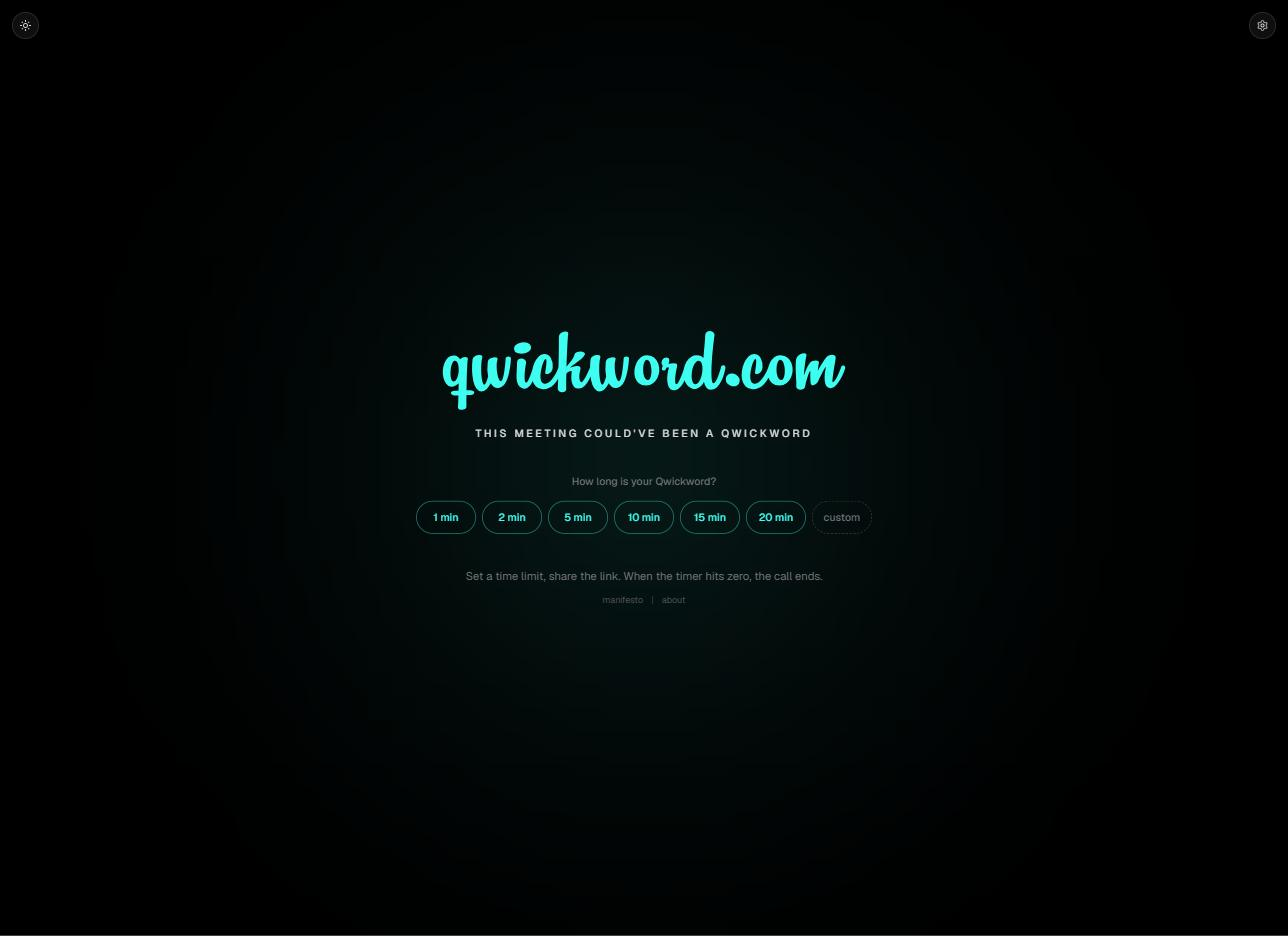
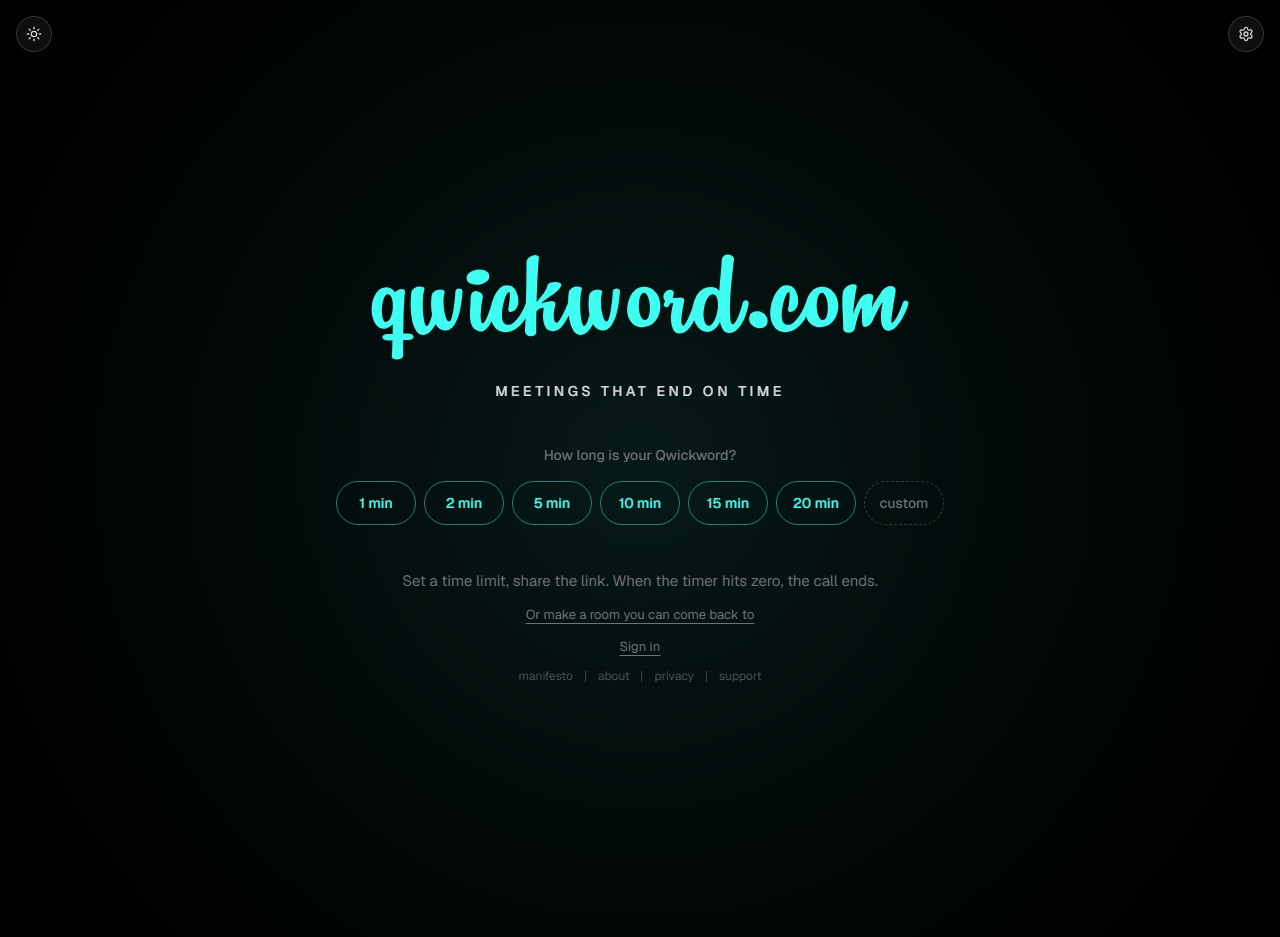
Refresh public Qwickword discovery assets

diff --git a/README.md b/README.md
@@ -6,15 +6,20 @@
 
 **Live at [qwickword.com](https://qwickword.com)**
 
-A meeting tool where you set the maximum call length in advance and it **cannot be extended**.
-When the timer hits zero, the call ends — server-enforced by Daily.co, not just a client-side
-clock. If you need more time, you schedule another Qwickword.
+**Meetings that end on time.** Pick a limit from 1 to 30 minutes, share the
+link, and start talking. Guests need no account or download. When the timer
+hits zero, the call ends for everyone and cannot be extended.
+
+[Try Qwickword](https://qwickword.com) ·
+[About and privacy](https://qwickword.com/about) ·
+[Manifesto](https://qwickword.com/manifesto) ·
+[Support](mailto:info@mauriceholdings.llc)
 
 ## Screenshots
 
 <table>
 <tr>
-<td width="50%"><img src="docs/screenshots/home.jpg" alt="Home page: pick a call length, get a link" /><br /><sub>Pick a length, get a link — no signup.</sub></td>
+<td width="50%"><img src="docs/screenshots/home.jpg" alt="Qwickword home page with the promise Meetings that end on time and a 1 to 30 minute call-length picker" /><br /><sub>Pick a length and get a link. Guests need no account or download.</sub></td>
 <td width="50%"><img src="docs/screenshots/link-created.jpg" alt="Link created screen showing a shareable qwickword.com link" /><br /><sub>A clean, memorable link — nothing to configure after creation.</sub></td>
 </tr>
 <tr>
